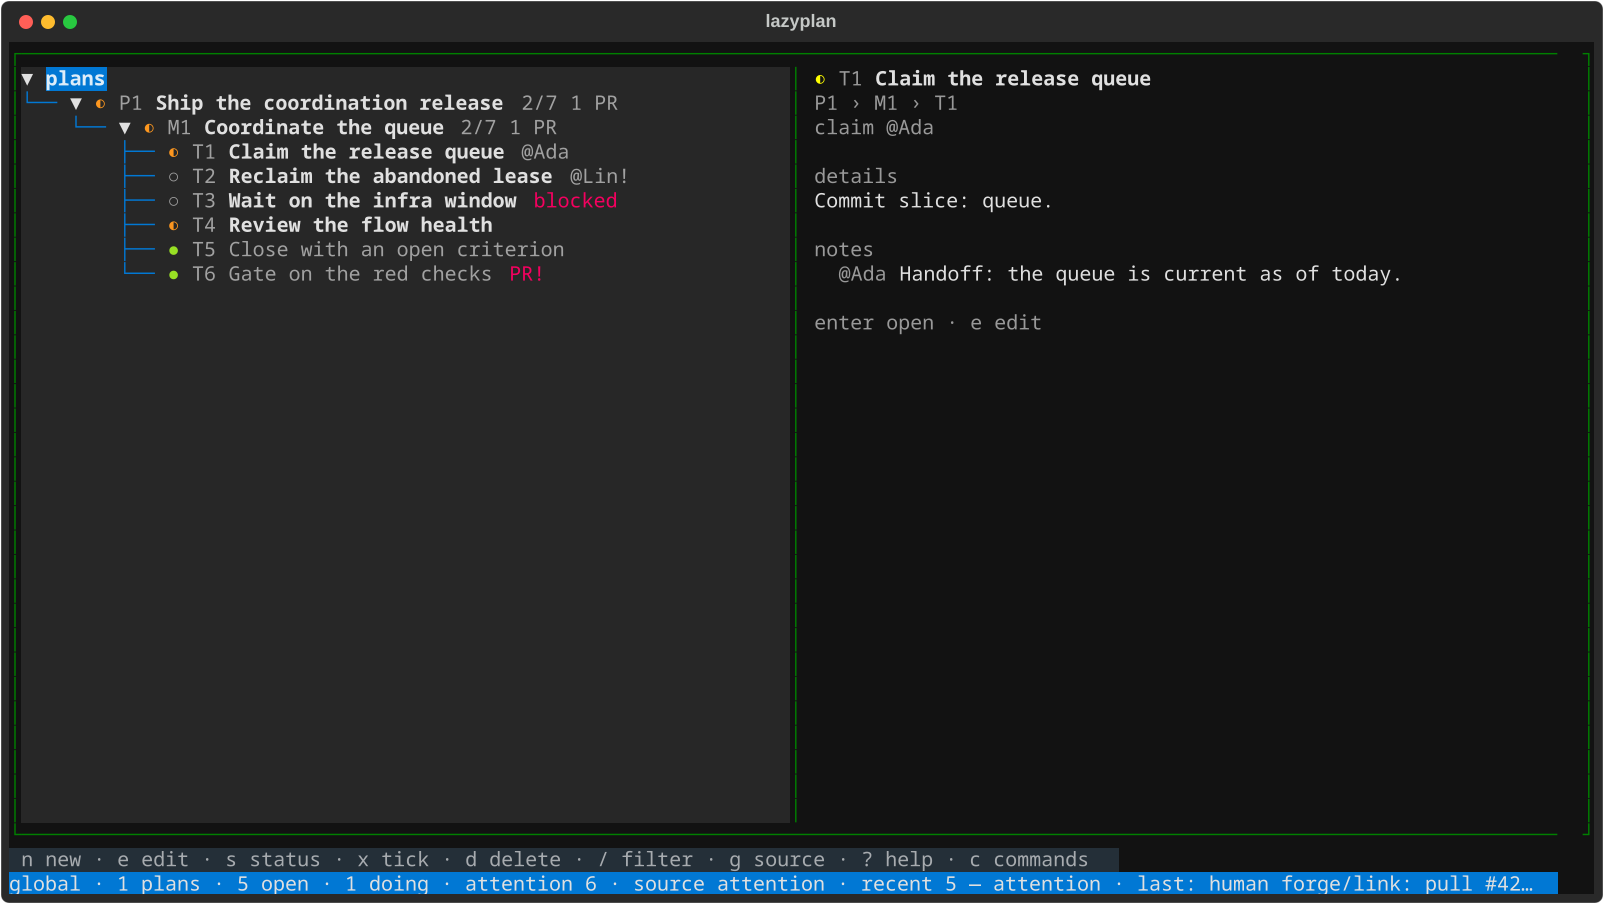
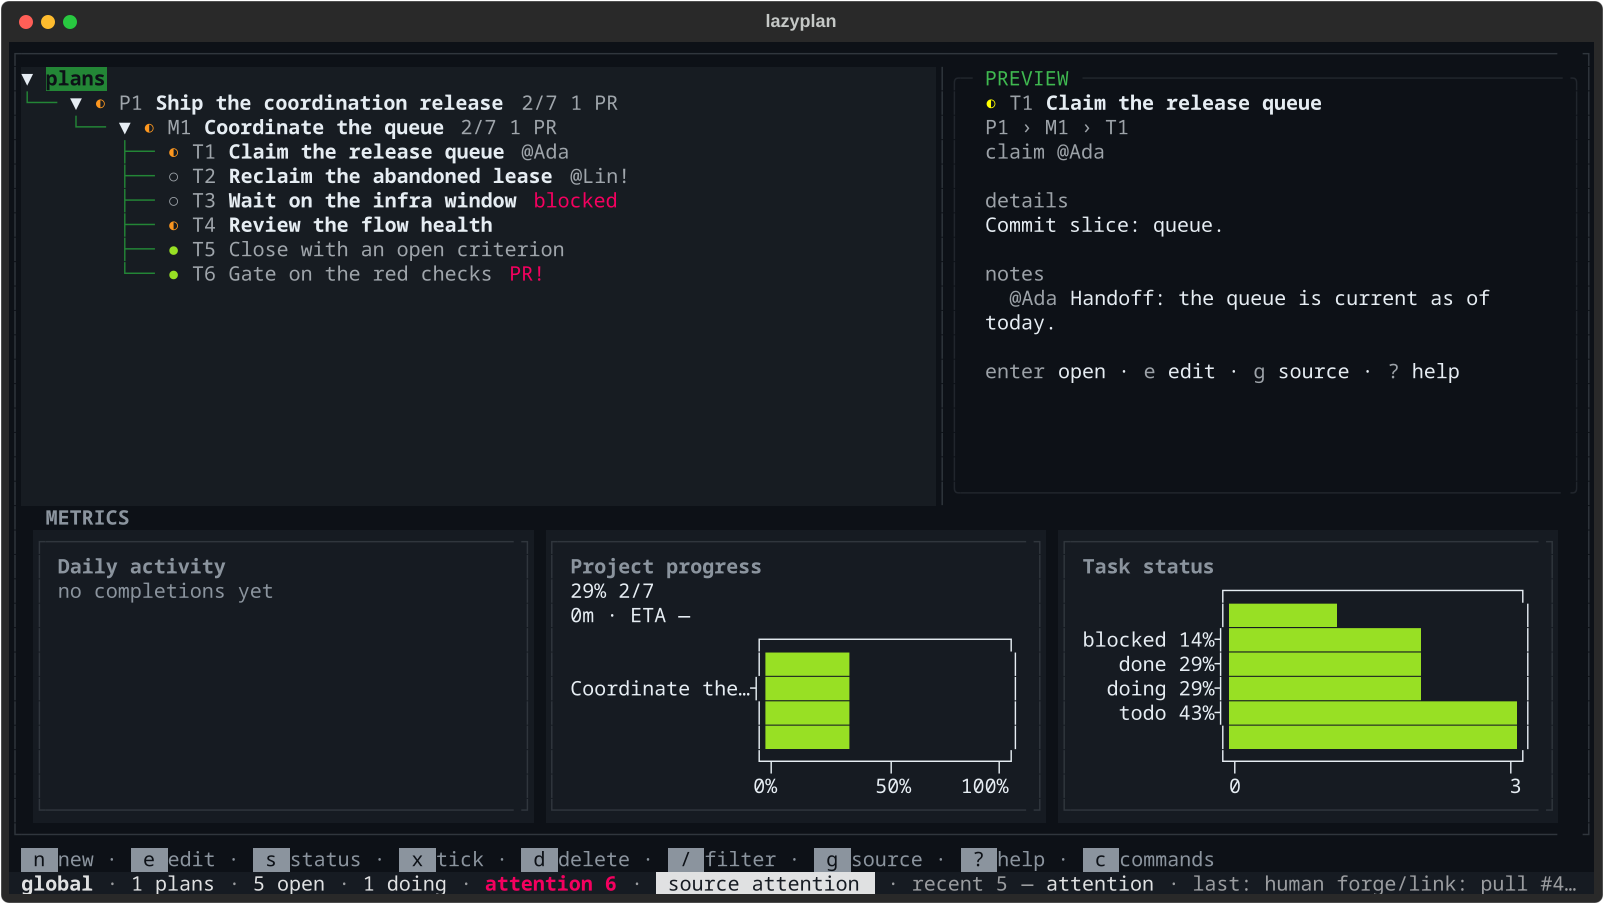
docs: refresh deterministic screenshots

diff --git a/site/index.html b/site/index.html
@@ -273,7 +273,7 @@ Task · Add the token model        done</pre>
     <figure class="m-0">
       <picture>
         <source srcset="./screens/lpui-detail.webp" type="image/webp">
-        <img src="./screens/lpui-detail.png" width="1400" height="900" loading="lazy" decoding="async" alt="Read-only detail page showing a plan's reason, scope, acceptance criteria, and milestones." class="block h-auto w-full rounded-xl border border-plan-border">
+        <img src="./screens/lpui-detail.png" width="1604" height="904" loading="lazy" decoding="async" alt="Read-only detail page showing a plan's reason, scope, acceptance criteria, and milestones." class="block h-auto w-full rounded-xl border border-plan-border">
       </picture>
       <figcaption class="mt-2 text-sm text-zinc-400">The why, the what, and what done means.</figcaption>
     </figure>

diff --git a/tools/capture-screens.py b/tools/capture-screens.py
@@ -326,6 +326,15 @@ async def capture_coordination(store: Store, target: Path) -> None:
         app.save_screenshot(str(target))
 
 
+async def capture_plan_detail(store: Store, target: Path) -> None:
+    plan_id = next(plan.id for plan in store.list_plans() if plan.name == "Ship the source trail")
+    app = create_app(str(store.path))
+    async with app.run_test(size=SIZE) as pilot:
+        app.push_screen(DetailScreen(store, "plan", plan_id))
+        await pilot.pause()
+        app.save_screenshot(str(target))
+
+
 async def capture_collaboration(store: Store, target: Path) -> None:
     task_id = _task_id(store, "Claim the release queue")
     app = create_app(str(store.path))
@@ -508,6 +517,12 @@ SCENES: dict[str, Scene] = {
         build_source_fixture,
         capture_source,
         "lazyplan source trail for a task showing a repository, commits, changed files, a merged pull request, and a unified diff.",
+    ),
+    "lpui-detail": Scene(
+        SIZE,
+        build_source_fixture,
+        capture_plan_detail,
+        "Read-only plan detail showing the reason, scope, acceptance criteria, milestones, and linked source.",
     ),
     "lpui-coordination": Scene(
         SIZE,
